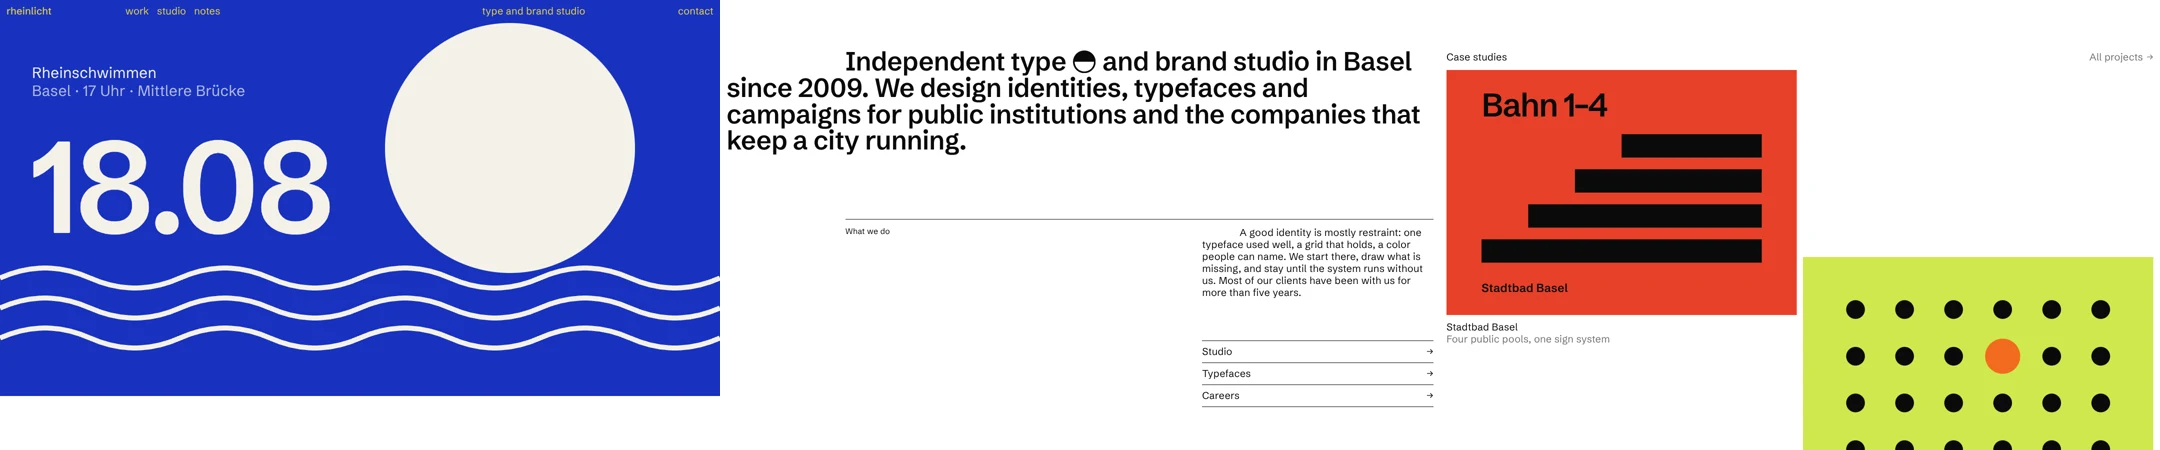
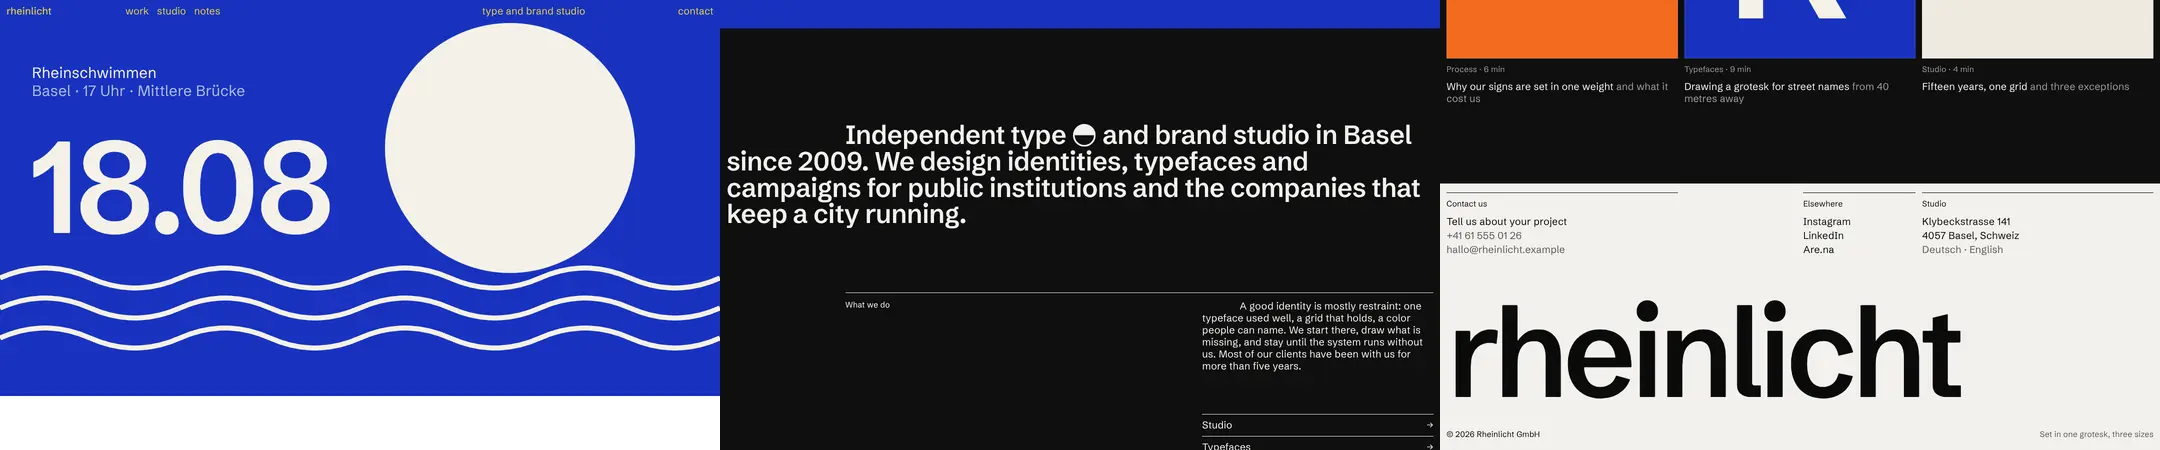
Improve swiss-grid-type-skill: 38 → 39/40 (header clears the hero numerals, dark mode)
The blended header now slides away after 48px instead of 60 percent of a
screen, so the hero numerals no longer run through the wordmark. Adds a
full dark mode with paired tokens (menu sheet and footer no longer
hard-code white). verify-demo learned dark passes for pages that ship a
dark scheme and a low-contrast check on plain-background text.

Claude-Session: https://claude.ai/code/session_01XdASbRog22jE6xUYCS6WyS

diff --git a/skills/swiss-grid-type-skill/demo/index.html b/skills/swiss-grid-type-skill/demo/index.html
@@ -17,6 +17,8 @@
     --gray: #737373;               /* same size as the text it sits under, never smaller; 4.7:1 on white */
     --night: #0B0B0B;
     --night-gray: #9A9A9A;         /* 7.0:1 on --night */
+    --on-night: #FFFFFF;
+    color-scheme: light dark;
     --sans: 'Schibsted Grotesk', 'Helvetica Neue', Helvetica, Arial, sans-serif;
 
     --t-display: clamp(30px, 3.66vw, 56px);  /* 53px at 1440 */
@@ -36,6 +38,16 @@
     .page * { --col: calc((100cqw - 2 * var(--m) - (var(--cols) - 1) * var(--g)) / var(--cols)); }
   }
   @media (max-width: 760px) { :root { --cols: 4; } }
+  /* Dark: the same system with paper and ink swapped; the footer stays the inverse of the page */
+  @media (prefers-color-scheme: dark) {
+    :root {
+      --paper: #0F0F0F; --ink: #F2F1EC;
+      --gray: #9C9C9C;             /* 7.0:1 on --paper */
+      --night: #F2F1EC; --night-gray: #5C5C5C; --on-night: #0B0B0B;   /* 5.9:1 on --night */
+    }
+    /* a black poster on a black page loses its edge: a hairline gives it back */
+    .case__img, .note__img { outline: 1px solid rgba(242, 241, 236, .14); outline-offset: -1px; }
+  }
 
   *, *::before, *::after { box-sizing: border-box; }
   html, body { background: var(--paper); color: var(--ink); }
@@ -122,9 +134,9 @@
   .note__meta { font-size: var(--t-small); color: var(--gray); font-variant-numeric: tabular-nums; }
 
   /* ---------- Footer: the same grid, inverted ---------- */
-  .foot { background: var(--night); color: #fff; padding-block: 18px 22px; row-gap: 56px; }
+  .foot { background: var(--night); color: var(--on-night); padding-block: 18px 22px; row-gap: 56px; }
   .foot .gray { color: var(--night-gray); }
-  .foot h2 { margin: 0 0 14px; padding-top: 12px; border-top: 1px solid #fff; font: inherit; font-size: var(--t-small); }
+  .foot h2 { margin: 0 0 14px; padding-top: 12px; border-top: 1px solid currentColor; font: inherit; font-size: var(--t-small); }
   .foot ul { margin: 0; padding: 0; list-style: none; display: grid; gap: 4px; }
   .foot a:hover { text-decoration: underline; text-underline-offset: 3px; }
   .foot__a { grid-column: 1 / 3; }
@@ -157,7 +169,7 @@
   }
 
   /* Mobile menu: the same three sizes, nothing new */
-  .sheet { position: fixed; inset: 0; z-index: 60; background: var(--ink); color: #fff; padding: 64px var(--m) 24px; display: grid; align-content: start; gap: 6px; }
+  .sheet { position: fixed; inset: 0; z-index: 60; background: var(--ink); color: var(--paper); padding: 64px var(--m) 24px; display: grid; align-content: start; gap: 6px; }
   .sheet[hidden] { display: none; }
   .sheet a { font-size: var(--t-display); font-weight: 600; line-height: 1.05; letter-spacing: -.012em; }
   .sheet button { position: absolute; top: 10px; right: var(--m); appearance: none; border: 0; background: none; color: inherit; font: inherit; cursor: pointer; }
@@ -290,7 +302,7 @@
     document.addEventListener('keydown', function (e) { if (e.key === 'Escape' && !sheet.hidden) set(false); });
   })();
 
-  // Header: hides while the reader scrolls down past the hero, returns on any scroll up.
+  // Header: hides as soon as the reader scrolls down (the hero numerals would run through it), returns on any scroll up.
   (function () {
     var top = document.querySelector('.top'), last = scrollY, queued = false;
     addEventListener('scroll', function () {
@@ -299,7 +311,7 @@
         queued = false;
         var y = scrollY, d = y - last;
         if (Math.abs(d) < 6) return;
-        top.classList.toggle('is-away', d > 0 && y > innerHeight * 0.6);
+        top.classList.toggle('is-away', d > 0 && y > 48); // leaves before the hero numerals reach it
         last = y;
       });
     }, { passive: true });

diff --git a/skills/swiss-grid-type-skill/SKILL.md b/skills/swiss-grid-type-skill/SKILL.md
@@ -71,6 +71,8 @@ Phones (< 760px): 4 columns, same rules. The statement still indents one column;
   --gray: #737373;               /* same size as the text it sits under, never smaller; 4.7:1 on white */
   --night: #0B0B0B;
   --night-gray: #9A9A9A;         /* 7.0:1 on --night */
+  --on-night: #FFFFFF;
+  color-scheme: light dark;
   --sans: 'Schibsted Grotesk', 'Helvetica Neue', Helvetica, Arial, sans-serif;
 
   --t-display: clamp(30px, 3.66vw, 56px);  /* 53px at 1440 */
@@ -90,6 +92,16 @@ Phones (< 760px): 4 columns, same rules. The statement still indents one column;
   .page * { --col: calc((100cqw - 2 * var(--m) - (var(--cols) - 1) * var(--g)) / var(--cols)); }
 }
 @media (max-width: 760px) { :root { --cols: 4; } }
+/* Dark: the same system with paper and ink swapped; the footer stays the inverse of the page */
+@media (prefers-color-scheme: dark) {
+  :root {
+    --paper: #0F0F0F; --ink: #F2F1EC;
+    --gray: #9C9C9C;             /* 7.0:1 on --paper */
+    --night: #F2F1EC; --night-gray: #5C5C5C; --on-night: #0B0B0B;   /* 5.9:1 on --night */
+  }
+  /* a black poster on a black page loses its edge: a hairline gives it back */
+  .case__img, .note__img { outline: 1px solid rgba(242, 241, 236, .14); outline-offset: -1px; }
+}
 
 *, *::before, *::after { box-sizing: border-box; }
 html, body { background: var(--paper); color: var(--ink); }
@@ -212,7 +224,7 @@ Phones:
 }
 
 /* Mobile menu: the same three sizes, nothing new */
-.sheet { position: fixed; inset: 0; z-index: 60; background: var(--ink); color: #fff; padding: 64px var(--m) 24px; display: grid; align-content: start; gap: 6px; }
+.sheet { position: fixed; inset: 0; z-index: 60; background: var(--ink); color: var(--paper); padding: 64px var(--m) 24px; display: grid; align-content: start; gap: 6px; }
 .sheet[hidden] { display: none; }
 .sheet a { font-size: var(--t-display); font-weight: 600; line-height: 1.05; letter-spacing: -.012em; }
 .sheet button { position: absolute; top: 10px; right: var(--m); appearance: none; border: 0; background: none; color: inherit; font: inherit; cursor: pointer; }
@@ -249,7 +261,7 @@ Hero art direction for both orientations:
   document.addEventListener('keydown', function (e) { if (e.key === 'Escape' && !sheet.hidden) set(false); });
 })();
 
-// Header: hides while the reader scrolls down past the hero, returns on any scroll up.
+// Header: hides as soon as the reader scrolls down (the hero numerals would run through it), returns on any scroll up.
 (function () {
   var top = document.querySelector('.top'), last = scrollY, queued = false;
   addEventListener('scroll', function () {
@@ -258,7 +270,7 @@ Hero art direction for both orientations:
       queued = false;
       var y = scrollY, d = y - last;
       if (Math.abs(d) < 6) return;
-      top.classList.toggle('is-away', d > 0 && y > innerHeight * 0.6);
+      top.classList.toggle('is-away', d > 0 && y > 48); // leaves before the hero numerals reach it
       last = y;
     });
   }, { passive: true });
@@ -283,6 +295,7 @@ Hero art direction for both orientations:
 - **No JS:** every word, image and link in the content renders. On phones the menu button does nothing without JS, so the header only offers "contact"; for a site with real subpages, render the phone menu as a `<details>` element so it works without JS.
 - **Reduced motion:** the only motion is the header slide and a 2.5 percent image scale on hover; both are off.
 - **Contrast:** ink on paper 19.7:1, gray on paper 4.7:1, gray on black 7.0:1. With `difference`, the header text over a color is that color's inverse: over the first cobalt tried (#1F3FE0) it was a yellow at 4.1:1, which fails AA for 20px text, so the hero blue went one step darker to #1832C0 (inverse at 5.9:1). Compute the inverse contrast for every hero color you use; the header hides on scroll down, so the case images only pass under it briefly.
+- **Dark mode:** paper and ink swap (`#0F0F0F` / `#F2F1EC`, 16.9:1), the gray lightens to `#9C9C9C` (7.0:1), and the footer stays the inverse of the page, so it turns light (`#5C5C5C` gray on it at 5.9:1). The blended header needs no change: white `difference` over dark paper is light. Images keep their own colors; a hairline at 14 percent ink gives a black poster its edge back. Never hard-code `#fff` for text on `--ink` or `--night`: use `var(--paper)` and `var(--on-night)` so the pair flips together.
 - **Focus:** `outline: 2px solid currentColor` with a 3px offset, so it follows the blend in the header and the inversion in the footer.
 - **Semantics:** the statement is a `<p>` (it is a sentence), section labels are `<h2>` at body size, case images are SVG with `role="img"` and a description, the glyph is `aria-hidden`.
 
@@ -315,7 +328,7 @@ Hero art direction for both orientations:
 
 [`demo/index.html`](demo/index.html) is a complete page for an invented Basel type and brand studio, Rheinlicht: a blended header spread across the grid, a full-bleed swim-day poster (with its own portrait composition on phones), the indented statement with the half-sun mark, the "What we do" split, four staggered case studies with original poster art, three notes, and the inverted footer with a giant wordmark.
 
-Verified with `node scripts/verify-demo.mjs skills/swiss-grid-type-skill/demo` (desktop, phones at 360/390/430, reduced motion at every stop, forced fallback, focus visibility, host body reset).
+Verified with `node scripts/verify-demo.mjs skills/swiss-grid-type-skill/demo --stops 12` (desktop, phones at 360/390/430, reduced motion at every stop, forced fallback, focus visibility, host body reset, text under fixed chrome) plus dark mode, the phone menu and case hover screenshotted by hand.
 
 ![Demo preview](demo/preview.webp)
 
@@ -324,6 +337,7 @@ Lessons learned while building it (already folded into the rules above):
 - `container-type` on the page wrapper made the fixed header scroll with the page. The header and menu now live outside the container.
 - The "What we do" label was an `<h2>` and came out bold: a second weight at small size breaks the system. It is set to 400.
 - On phones the transparent header sat on top of the statement while reading. It now slides away on scroll down and returns on scroll up or keyboard focus.
+- (Improvement run, 2026-10-10) The header only left after 60 percent of a screen, so the giant hero numerals ran through the wordmark on the way; verify-demo's fixed-chrome check caught it at every pass. It now leaves after 48px. The page also had no dark mode, and the phone menu and footer hard-coded `#fff` text, which would have vanished once ink turned light; both now use tokens.
 - "All notes" wrapped onto two lines in a one-column cell on phones. Row-head cells were rebalanced and the link set to `nowrap`.
 - The landscape poster cropped with `slice` showed only "8" and half a sun on phones. A portrait composition fitted with `meet` replaced it.
 - The blended header over the first cobalt (#1F3FE0) came out as yellow at 4.1:1, failing AA. Darkening the hero blue to #1832C0 lifted the inverse to 5.9:1 without changing the look.
@@ -338,3 +352,5 @@ Lessons learned while building it (already folded into the rules above):
 4. Is the header plain text with no bar, legible over every hero color you use?
 5. Are the empty grid cells still empty?
 6. With JavaScript off, is every word, image and link still there?
+7. In dark mode, does every pair still flip together (menu sheet, footer, hairlines), and does every gray still pass?
+8. Does verify-demo's fixed-chrome check pass at `--stops 12`, so the header never sits on the hero type?

diff --git a/lessons/README.md b/lessons/README.md
@@ -26,7 +26,7 @@ The full, reusable version of each lesson lives in `skills/<slug>-skill/` with a
 | 001 | 2026-10-07 | [Particle morph hero](2026-10-07-particle-morph-hero.md) | WebGL and 3D | getlayers.ai "Vesper" template | [`particle-morph-skill`](../skills/particle-morph-skill/SKILL.md) | 34 → 38/40 |
 | 002 | 2026-10-07 | [Dither tile grid](2026-10-07-dither-tile-grid.md) | Imagery and art direction | aspensearch.com (Awwwards SOTD, 15 Sep 2026) | [`dither-tile-skill`](../skills/dither-tile-skill/SKILL.md) | 36 → 38/40 |
 | 003 | 2026-10-08 | [Scroll scrub story](2026-10-08-scroll-scrub-story.md) | Scroll motion | white-desert.com (Awwwards SOTD, 11 Sep 2026) | [`scroll-scrub-story-skill`](../skills/scroll-scrub-story-skill/SKILL.md) | 37 → 38/40 |
-| 004 | 2026-10-09 | [Swiss grid typography](2026-10-09-swiss-grid-type.md) | Typography | twks.ch (Awwwards SOTD, 7 Oct 2026) | [`swiss-grid-type-skill`](../skills/swiss-grid-type-skill/SKILL.md) | 38/40 |
+| 004 | 2026-10-09 | [Swiss grid typography](2026-10-09-swiss-grid-type.md) | Typography | twks.ch (Awwwards SOTD, 7 Oct 2026) | [`swiss-grid-type-skill`](../skills/swiss-grid-type-skill/SKILL.md) | 38 → 39/40 |
 | 005 | 2026-10-10 | [Justified project strips](2026-10-10-justified-strip.md) | Layout and grid | boc.studio (Awwwards SOTD, 19 Sep 2026) | [`justified-strip-skill`](../skills/justified-strip-skill/SKILL.md) | 38/40 |
 
 ## Improvement log
@@ -36,3 +36,4 @@ The full, reusable version of each lesson lives in `skills/<slug>-skill/` with a
 | 2026-10-08 | particle-morph-skill | 34 → 38/40 | Shapes now hold at every reading stop, with one statement per screen behind a scrim (before: two headlines over a bare, half-formed galaxy); plus a light nav over the paper section, a 2D-canvas orb still for the plate and the no-WebGL fallback, per-shape fit so the galaxy never clips at 360px, and a device-true stat | verify-demo learned reduced motion at every stop, a forced-fallback pass (no WebGL, `CSS.supports` false), 360/430 widths, overflow at every stop, a keyboard focus-visibility check, `--stops N` and contact sheets; three new principles (fixed chrome flips with sections, one statement per screen, device-true copy) and code spliced from the demo |
 | 2026-10-08 | dither-tile-skill | 36 → 38/40 | Without canvas every tile was the same gray fade; a `--shape` mask per field now prints the subject (sphere, rings, swell, ridge, dawn) as a CSS halftone. Also lifted the ridge foreground out of solid ink | verify-demo learned a host check: the page is loaded under a stand-in for a viewer's `<body>` reset and every text box is compared; it found and fixed the same dark-text bug in the lesson 001 demo. New principle: style the body, not only the root |
 | 2026-10-09 | scroll-scrub-story-skill | 37 → 38/40 | The pinned camp cards now hold centred at reading stops (before: a linear glide showed two half-cut cards at most stops, plus a card sliver next to the title); the transparent header got a frosted band so headlines and prices no longer run through the logo on phones | verify-demo learned a fixed-chrome check: at every stop it samples unbacked text inside fixed elements and fails when page text sits under it (it flags the old demo in every pass). Principles 1 and 4 sharpened |
+| 2026-10-10 | swiss-grid-type-skill | 38 → 39/40 | The header now leaves after 48px of scroll instead of 60 percent of a screen, so the giant hero numerals no longer run through the wordmark; plus a full dark mode (paper and ink swap, footer stays inverse, 7.0:1 gray, hairline edges on black posters) with the menu sheet and footer moved off hard-coded white | verify-demo learned dark passes (`dark-desktop`, `dark-mobile`) for pages that ship a dark scheme, and a low-contrast check on every plain-background text box in every pass; it fails a copy of the demo whose footer keeps `#fff` text in dark mode |

diff --git a/lessons/PROTOCOL.md b/lessons/PROTOCOL.md
@@ -51,7 +51,7 @@ In the morning, section 1 is replaced by `NEXT.md` when its date is today and it
 node scripts/verify-demo.mjs skills/<slug>-skill/demo /tmp/verify
 ```
 
-It must print `OK`. It runs desktop, phones at 360/390/430, reduced motion at every scroll stop, and a forced-fallback pass (WebGL unavailable, `CSS.supports()` false), and fails on page errors, console errors, failed requests, horizontal overflow at any stop, any element Tab reaches without a visible focus change, a phone layout viewport wider than the phone, scroll past the end of the content, a body background or text that changes when a host page styles `<body>`, and page text that scrolls under unbacked text in fixed chrome. For pinned or scrubbed sections add `--stops 30`. With ImageMagick installed it writes `sheet-<pass>.jpg` contact sheets, one row per pass.
+It must print `OK`. It runs desktop, phones at 360/390/430, reduced motion at every scroll stop, and a forced-fallback pass (WebGL unavailable, `CSS.supports()` false), and fails on page errors, console errors, failed requests, horizontal overflow at any stop, any element Tab reaches without a visible focus change, a phone layout viewport wider than the phone, scroll past the end of the content, a body background or text that changes when a host page styles `<body>`, page text that scrolls under unbacked text in fixed chrome, and text below 3:1 on a plain background. Pages with a `prefers-color-scheme: dark` block also get `dark-desktop` and `dark-mobile` passes. For pinned or scrubbed sections add `--stops 30`. With ImageMagick installed it writes `sheet-<pass>.jpg` contact sheets, one row per pass.
 
 Then **look at every contact sheet, including the fallback and reduced ones** and write down at least three visual flaws (overlaps, unreadable text over busy backgrounds, awkward wraps, dead space, mobile cramping, motion parked mid-transition). Fix them and verify again. Repeat until a fresh look finds nothing worth fixing. Fold what you learned into the skill's "Working Demo" notes so the next agent does not repeat it.
 
@@ -97,3 +97,4 @@ If today taught something about *how* to run these lessons (a better capture tri
 - 2026-10-09: With `mix-blend-mode: difference` text, the color a reader sees is the inverse of what is under it; compute that inverse's contrast for every hero color (a vivid cobalt gave 4.1:1). And `container-type` on a wrapper makes `position: fixed` children scroll with it: keep fixed chrome outside container wrappers.
 - 2026-10-09 (improve): The lesson 003 header was transparent: at most mobile stops a headline or price ran through the logo, and nothing flagged it. verify-demo now samples every unbacked text box in fixed elements at every stop and fails when page text sits under it. Also look at a pinned card track at many stops: a linear glide passed every check while showing two half-cut cards most of the time.
 - 2026-10-10: A horizontally scrolling child (a phone swipe band, a `max-content` track) inside a plain `1fr` grid column widens the column and the phone renders zoomed out; use `minmax(0, 1fr)` for every track that holds one. Make the focusable element the scroller itself, and press the arrow keys on it in a phone viewport (wait about a second per press for smooth scroll) to prove it swipes.
+- 2026-10-10 (improve): The lesson 004 header slid away only after 60 percent of a screen, so the hero numerals ran through the wordmark on the way; the fixed-chrome check caught it on its first run against that demo, which had passed at 8 stops the day before (use 12 or more). Dark mode is now a verify-demo pass with a contrast check; it skips SVG text (painted by `fill`) and anything over images, gradients, blends or mid-fade, so a hit is real.

diff --git a/lessons/PRINCIPLES.md b/lessons/PRINCIPLES.md
@@ -13,7 +13,7 @@ Rules distilled from every lesson so far. Each one has shown up more than once, 
 
 ## Check
 
-7. **Every state is a screenshot.** Dark mode, hover, focus, reduced motion, fallback, and every scroll stop inside pinned or scrubbed sections get looked at, not assumed. The worst flaw usually hides in the state nobody opened. verify-demo now renders reduced motion, forced fallback, 360/430 widths and focus on its own; dark mode and hover are still manual. (002 dark mode, 003 pinned sweep, 001 fallback)
+7. **Every state is a screenshot.** Dark mode, hover, focus, reduced motion, fallback, and every scroll stop inside pinned or scrubbed sections get looked at, not assumed. The worst flaw usually hides in the state nobody opened. verify-demo now renders reduced motion, forced fallback, 360/430 widths, focus, and dark mode when the page ships one (with a contrast check on every plain-background text box); hover is still manual. Colors that come in pairs (text on ink, text on the footer) are both tokens, so a scheme flips the pair together: a hard-coded `#fff` on a background that turns light disappears. (002 dark mode, 003 pinned sweep, 001 fallback)
 8. **A fallback shows the idea, not an apology.** With the feature forced off (`CSS.supports` false, no WebGL), the page still shows the form in a cheaper medium (a 2D-canvas still, a static frame), never just a gradient blob. (001, 003)
 9. **Generated or procedural imagery gets its own render-and-look loop** before it goes into a page. (003)
 
